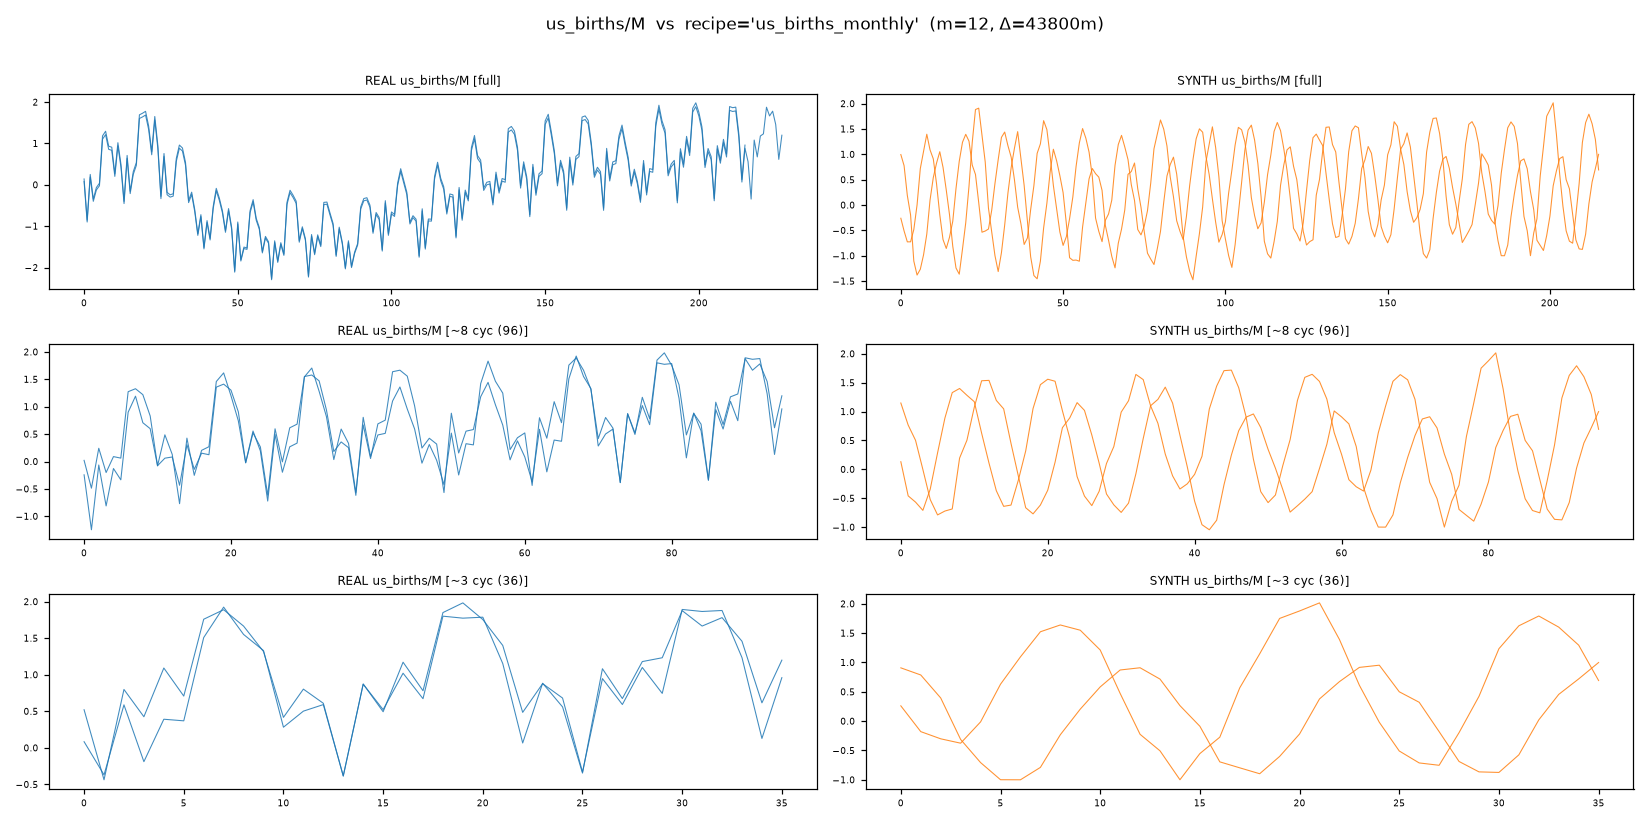
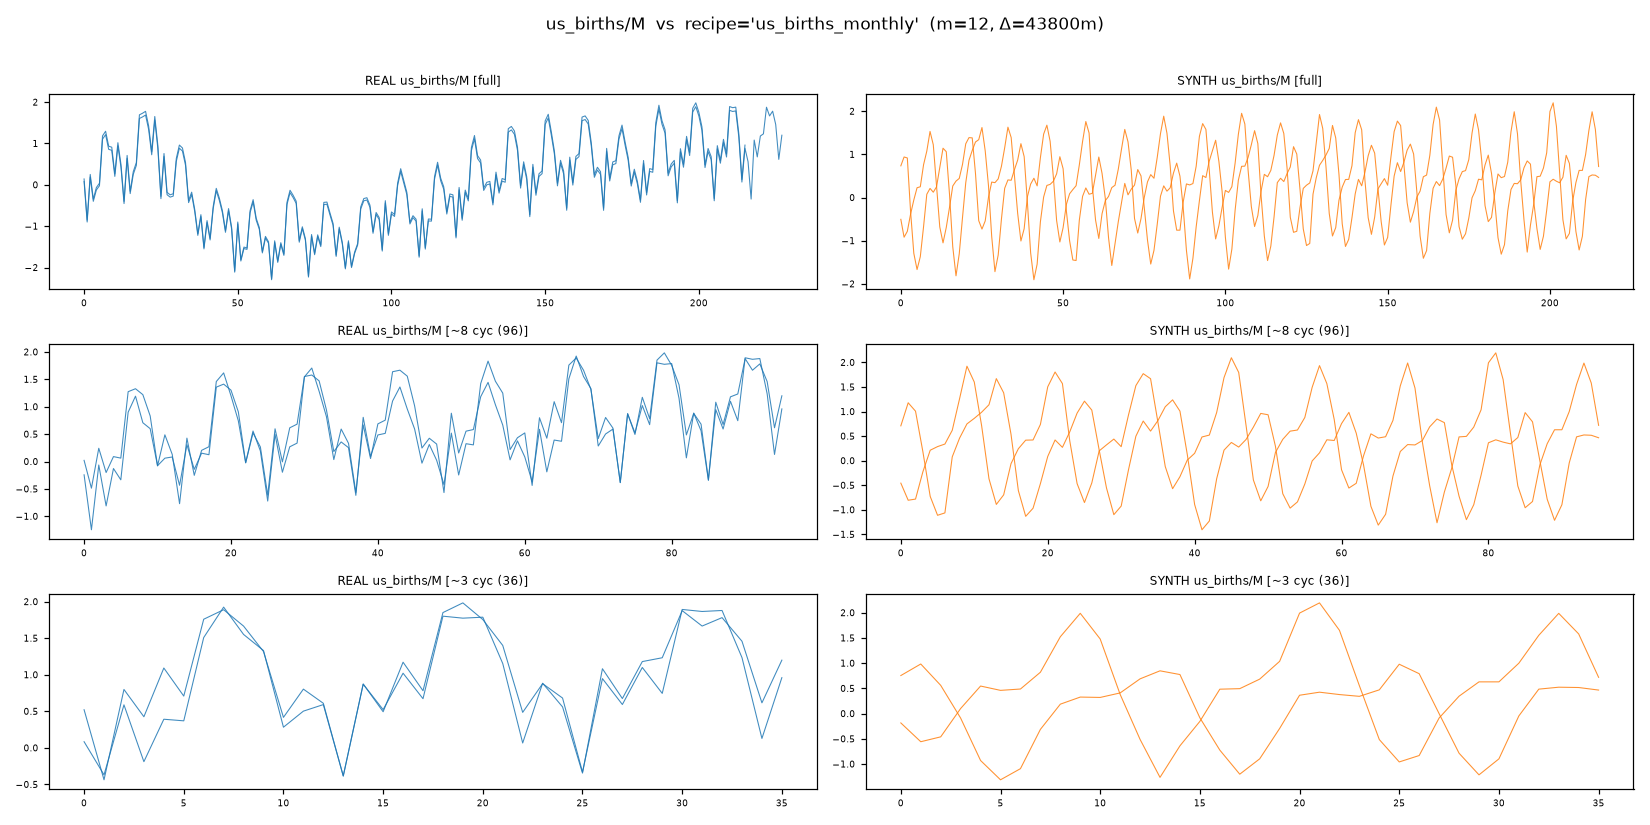
TETRIS H1.1: river/births — regular flood cadence + births harmonic
Further maintainer-feedback fixes:
- saugeenday D/W: inter-spike intervals still too random -> gen_counts `spike_period`
  (quasi-periodic placement: a roughly regular, predictable flood cadence with jitter, not
  Poisson gaps), kept the spike_season_spc amplitude wave + spike_decay recession.
- us_births_monthly: still too clean -> gen_drift_seasonal `harmonic_amp` (a SECOND sine at
  2x the annual frequency; real births carries a second seasonal component shaping the peak).

Tests: spike_period gap regularity (CoV < Poisson). Full suite green (222 passed).

diff --git a/src/tetris/data/synth_archetypes.py b/src/tetris/data/synth_archetypes.py
@@ -218,8 +218,9 @@ def _smooth_resid(rng, n: int, corr: float = 4.0) -> np.ndarray:
 
 def gen_drift_seasonal(
     rng, n: int, spc: int, *, drift_corr_days: float = 8.0, weekly_amp: float = 0.0,
-    daily_amp: float = 0.0, daily_amp_jitter: float = 0.45, noise_amp: float = 0.12,
-    hf_noise: float = 0.0, trend: float = 0.0,
+    daily_amp: float = 0.0, daily_amp_jitter: float = 0.45, harmonic_amp: float = 0.0,
+    harmonic_k: float = 2.0, noise_amp: float = 0.12, hf_noise: float = 0.0,
+    trend: float = 0.0,
 ) -> Tuple[np.ndarray, int]:
     """The **multi-scale weather/drift** archetype (jena): a slow long-correlation drift
     backbone (the seasonal swing, which over a short forecast context reads as persistent
@@ -245,7 +246,13 @@ def gen_drift_seasonal(
         phase = 2 * np.pi * np.arange(n) / spc + rng.uniform(0, 2 * np.pi)
         n_days = int(np.ceil(n / spc))
         damp = _persistent_amp(rng, n_days, jitter=daily_amp_jitter, persist=0.7)
-        out = out + daily_amp * np.repeat(damp, spc)[:n] * np.sin(phase)
+        cycle = np.sin(phase)
+        if harmonic_amp > 0:
+            # a SECOND sine component at k× the base frequency (a harmonic), so the cycle is
+            # not a clean single sine — real seasonal cycles (e.g. us_births) carry a second
+            # harmonic that shapes the peak/trough (a shoulder or a secondary bump).
+            cycle = cycle + harmonic_amp * np.sin(harmonic_k * phase + rng.uniform(0, 2 * np.pi))
+        out = out + daily_amp * np.repeat(damp, spc)[:n] * cycle
     out = S._standardize(out)
     if trend:                                            # persistent linear drift of the level
         # added AFTER standardize so it isn't normalized away — a trend + the (mean-reverting)
@@ -265,6 +272,7 @@ def gen_counts(
     level_drift: float = 0.4, level_corr_days: float = 10.0, season_amp: float = 0.0,
     trend: float = 0.0, intermittent: float = 0.0, spike_rate: float = 0.0,
     spike_amp: float = 10.0, spike_decay: float = 0.0, spike_season_spc: float = 0.0,
+    spike_period: float = 0.0, spike_period_jitter: float = 0.35,
     shift_amp: float = 0.0, shift_corr_days: float = 1.5,
 ) -> Tuple[np.ndarray, int]:
     """A non-negative **count / intermittent-demand** archetype — the retail/health family
@@ -277,10 +285,12 @@ def gen_counts(
     **intermittency** (zero-inflation — most steps zero, rare small demands, as in
     car_parts) and optional **sparse large spikes** on a low baseline (hierarchical_sales),
     which can be given an **asymmetric exponential recession** (``spike_decay`` — a fast rise
-    then a slow decay tail, the river-flow *hydrograph* shape: saugeenday flood events) and a
+    then a slow decay tail, the river-flow *hydrograph* shape: saugeenday flood events), a
     **seasonal envelope** (``spike_season_spc`` — an annual period in samples over which the
-    spike *probability and amplitude* concentrate, so floods recur with an annual rhythm and a
-    slow amplitude wave rather than uniformly at random: the recurring spring-freshet pattern).
+    spike *amplitude* waves, so floods are bigger in the high season: the spring-freshet
+    pattern), and **quasi-periodic placement** (``spike_period`` — a roughly regular interval
+    between events with ``spike_period_jitter`` randomness, so the inter-spike spacing is
+    *predictable* rather than Poisson-random).
 
     Learnable the way the real count data is: the *level* persists so last-value / linear
     forecast it (and any seasonal modulation repeats → seasonal-naive), while the count
@@ -320,17 +330,26 @@ def gen_counts(
     counts = rng.poisson(lam).astype(np.float64)
     if intermittent > 0:                                  # zero-inflation (intermittent demand)
         counts = counts * (rng.random(n) >= float(np.clip(intermittent, 0.0, 0.99)))
-    if spike_rate > 0:                                    # sparse large spikes on a low base
+    if spike_rate > 0 or spike_period > 0:               # sparse large spikes on a low base
         if spike_season_spc and spike_season_spc > 1:
-            # an annual envelope: floods recur with a seasonal RHYTHM (cluster near the high
-            # season, e.g. spring snowmelt) with a slow amplitude wave — not uniform random.
+            # an annual amplitude envelope: floods are bigger in the high season (spring melt)
+            # — a slow amplitude wave over the events.
             ph = 2 * np.pi * np.arange(n) / float(spike_season_spc) + rng.uniform(0, 2 * np.pi)
-            env = (0.5 + 0.5 * np.sin(ph)) ** 2           # 0..1, concentrated near the peak
-            prob = spike_rate * (0.25 + 1.5 * env)        # higher probability in season
-            amp_env = 0.4 + 1.3 * env                     # and larger events in season
+            env = (0.5 + 0.5 * np.sin(ph)) ** 2           # 0..1, peaked near the high season
+            amp_env = 0.4 + 1.3 * env
         else:
-            prob = np.full(n, float(spike_rate)); amp_env = np.ones(n)
-        mask = rng.random(n) < prob
+            env = None; amp_env = np.ones(n)
+        if spike_period and spike_period > 1:
+            # quasi-periodic events: a roughly REGULAR interval (predictable spacing) with
+            # fractional jitter — not Poisson-random gaps.
+            mask = np.zeros(n, dtype=bool)
+            t = rng.uniform(0, spike_period)
+            while t < n:
+                mask[int(t)] = True
+                t += spike_period * (1.0 + spike_period_jitter * rng.uniform(-1.0, 1.0))
+        else:
+            prob = spike_rate * (0.25 + 1.5 * env) if env is not None else np.full(n, float(spike_rate))
+            mask = rng.random(n) < prob
         spikes = mask * spike_amp * max(1e-3, level) * rng.uniform(0.5, 1.5, n) * amp_env
         if spike_decay > 0:
             # river hydrograph: each event RISES sharply then RECESSES (slow exponential

diff --git a/src/tetris/data/synth_archetype_recipes.py b/src/tetris/data/synth_archetype_recipes.py
@@ -251,15 +251,17 @@ RECIPES: Dict[str, dict] = {
     # NEW `spike_decay` recession. D and W differ only in the recession length in SAMPLES (the
     # event lasts ~3 weeks ⇒ ~18 samples at D, ~3 at W) ⇒ two recipes. Real last < lin (mean-
     # reverting to baseline): a flood spike landing in the horizon is unpredictable (hard).
-    # the floods recur with an ANNUAL rhythm (spike_season_spc — 365 @D / 52 @W) and a slow
-    # amplitude wave (bigger spring freshets), not uniformly at random (maintainer); each event
-    # keeps the asymmetric hydrograph recession.
+    # the floods recur at a roughly REGULAR interval (spike_period — predictable spacing, not
+    # Poisson-random) with an ANNUAL amplitude wave (spike_season_spc — bigger spring freshets)
+    # and each event keeps the asymmetric hydrograph recession (spike_decay). (maintainer)
     "saugeenday_daily": {"period_min": 1440, "tie": 0.0, "channels": [
         ("counts", dict(level=40.0, dispersion=0.12, level_drift=0.5, level_corr_days=2.0,
-                        spike_rate=0.012, spike_amp=7.0, spike_decay=15.0, spike_season_spc=365.0))]},
+                        spike_amp=7.0, spike_decay=15.0, spike_season_spc=365.0,
+                        spike_period=45.0, spike_period_jitter=0.35))]},
     "saugeenday_weekly": {"period_min": 1440, "tie": 0.0, "channels": [
         ("counts", dict(level=40.0, dispersion=0.12, level_drift=0.5, level_corr_days=4.0,
-                        spike_rate=0.035, spike_amp=7.0, spike_decay=3.0, spike_season_spc=52.0))]},
+                        spike_amp=7.0, spike_decay=3.0, spike_season_spc=52.0,
+                        spike_period=6.0, spike_period_jitter=0.35))]},
     # saugeenday_monthly — the monthly aggregate reveals a strong ANNUAL freshet cycle (real
     # snaive 0.31 ≪ last 0.86): a sharp spring peak repeating yearly on a low baseline. A
     # `recurring` single_hump at the annual period (spc 12 @M) is the repeating peak (seasonal-
@@ -287,9 +289,13 @@ RECIPES: Dict[str, dict] = {
     # us_births M — a rounded ANNUAL cycle + multi-year drift (drift_seasonal annual `daily_amp`
     # sine). Real M is strongly seasonal (snaive 0.30 ≪ last) but NOT a clean sine — it carries
     # real month-to-month noise (maintainer: "we need noise"), so a sizeable residual on top.
+    # ...with a SECOND harmonic (harmonic_amp at 2× the annual frequency) so the cycle is not a
+    # clean single sine — real us_births/M carries a second seasonal component (a shoulder /
+    # secondary bump) on the annual wave (maintainer).
     "us_births_monthly": {"period_min": 525600, "tie": 0.0, "channels": [
-        ("drift_seasonal", dict(daily_amp=1.6, daily_amp_jitter=0.15, weekly_amp=0.0,
-                                drift_corr_days=4.0, noise_amp=0.18, hf_noise=0.09))]},
+        ("drift_seasonal", dict(daily_amp=1.6, daily_amp_jitter=0.15, harmonic_amp=0.5,
+                                harmonic_k=2.0, weekly_amp=0.0, drift_corr_days=4.0,
+                                noise_amp=0.18, hf_noise=0.09))]},
 }
 
 

diff --git a/tests/test_synth_archetypes.py b/tests/test_synth_archetypes.py
@@ -182,6 +182,21 @@ def test_counts_spike_season_concentrates_events():
     assert bins.max() > 2.0 * (bins.mean() + 1e-9)           # a phase band dominates (vs ~1.0 uniform)
 
 
+def test_counts_spike_period_is_more_regular_than_poisson():
+    # quasi-periodic placement gives inter-spike intervals with LOW spread (a predictable
+    # cadence), unlike Poisson spikes whose gaps are exponential (coefficient of variation ~1).
+    def cov_of_gaps(spike_period):
+        x, _ = A.gen_counts(np.random.default_rng(2), 8000, 7, level=5.0, dispersion=0.0,
+                            level_drift=0.0, spike_rate=1.0 / 60.0, spike_amp=12.0,
+                            spike_period=spike_period)
+        idx = np.flatnonzero(x > x.mean() + 3 * x.std())     # event onsets (tall)
+        if idx.size < 5:
+            idx = np.flatnonzero(x > np.median(x) + 1e-6)
+        gaps = np.diff(idx[np.r_[True, np.diff(idx) > 5]])    # collapse a recession to one event
+        return float(np.std(gaps) / (np.mean(gaps) + 1e-9))
+    assert cov_of_gaps(50.0) < cov_of_gaps(0.0)              # regular cadence < Poisson spread
+
+
 def test_saugeenday_monthly_seasonal_naive_learnable():
     # the monthly river aggregate has a strong ANNUAL freshet cycle — seasonal-naive (12) must
     # clearly beat last-value, the way it does on the real saugeenday/M (snaive 0.73 < last).

diff --git a/docs/tetris/sanity_experiments/synth_targeted_smoothness_plan.md b/docs/tetris/sanity_experiments/synth_targeted_smoothness_plan.md
@@ -195,6 +195,11 @@ committed **characterizer** is a next step).
     saugeenday_weekly, saugeenday_monthly, us_births_daily, us_births_weekly, us_births_monthly
     (+ tests: spike_decay recession asymmetry, saugeenday_monthly seasonal-naive). **This completes the
     per-dataset hand-characterization of all GIFT-Eval configs.**
+  - **Further feedback rounds (maintainer):** the saugeenday seasonal envelope ⇒ `spike_season_spc`
+    (annual amplitude wave); then spike *spacing* still too random ⇒ `gen_counts` **`spike_period`**
+    (quasi-periodic placement — a roughly regular, predictable cadence with jitter, not Poisson gaps);
+    and us_births/M still too clean ⇒ `gen_drift_seasonal` **`harmonic_amp`** (a SECOND sine at 2× the
+    annual frequency — real births carries a second seasonal component shaping the peak). Tests for both.
 
 #### Status (end of 2026-06-24 session)
 - **DONE:** solar, bizitobs, electricity, covid, jena (prior) + **traffic** (LOOP_SEATTLE /
@@ -214,8 +219,9 @@ committed **characterizer** is a next step).
   peak-height variation). **NEW `gen_counts`** (overdispersed non-negative integer counts;
   knobs `dispersion`, `intermittent`, `shift_amp` additive held-plateau level shifts,
   `spike_rate`/`spike_amp`, **`season_amp`** weak repeating modulation, **`spike_decay`** asymmetric
-  exponential recession = the river hydrograph, **`spike_season_spc`** annual envelope concentrating
-  spike timing+amplitude = recurring freshets) — the counts/intermittent/retail family (and reused for
+  exponential recession = the river hydrograph, **`spike_season_spc`** annual amplitude wave on the
+  spikes, **`spike_period`** quasi-periodic spike placement = a regular flood cadence) — the
+  counts/intermittent/retail family (and reused for
   non-negative bursty/impulsive data: kdd pollution, bitbrains storage, saugeenday flood).
   Recipes: solar, bizitobs, electricity, covid, jena, ett, traffic_flow, traffic_speed, taxi_demand,
   m4_hourly, m4_trend, m4_annual, m4_spiky, restaurant, hospital, car_parts, hierarchical_sales,